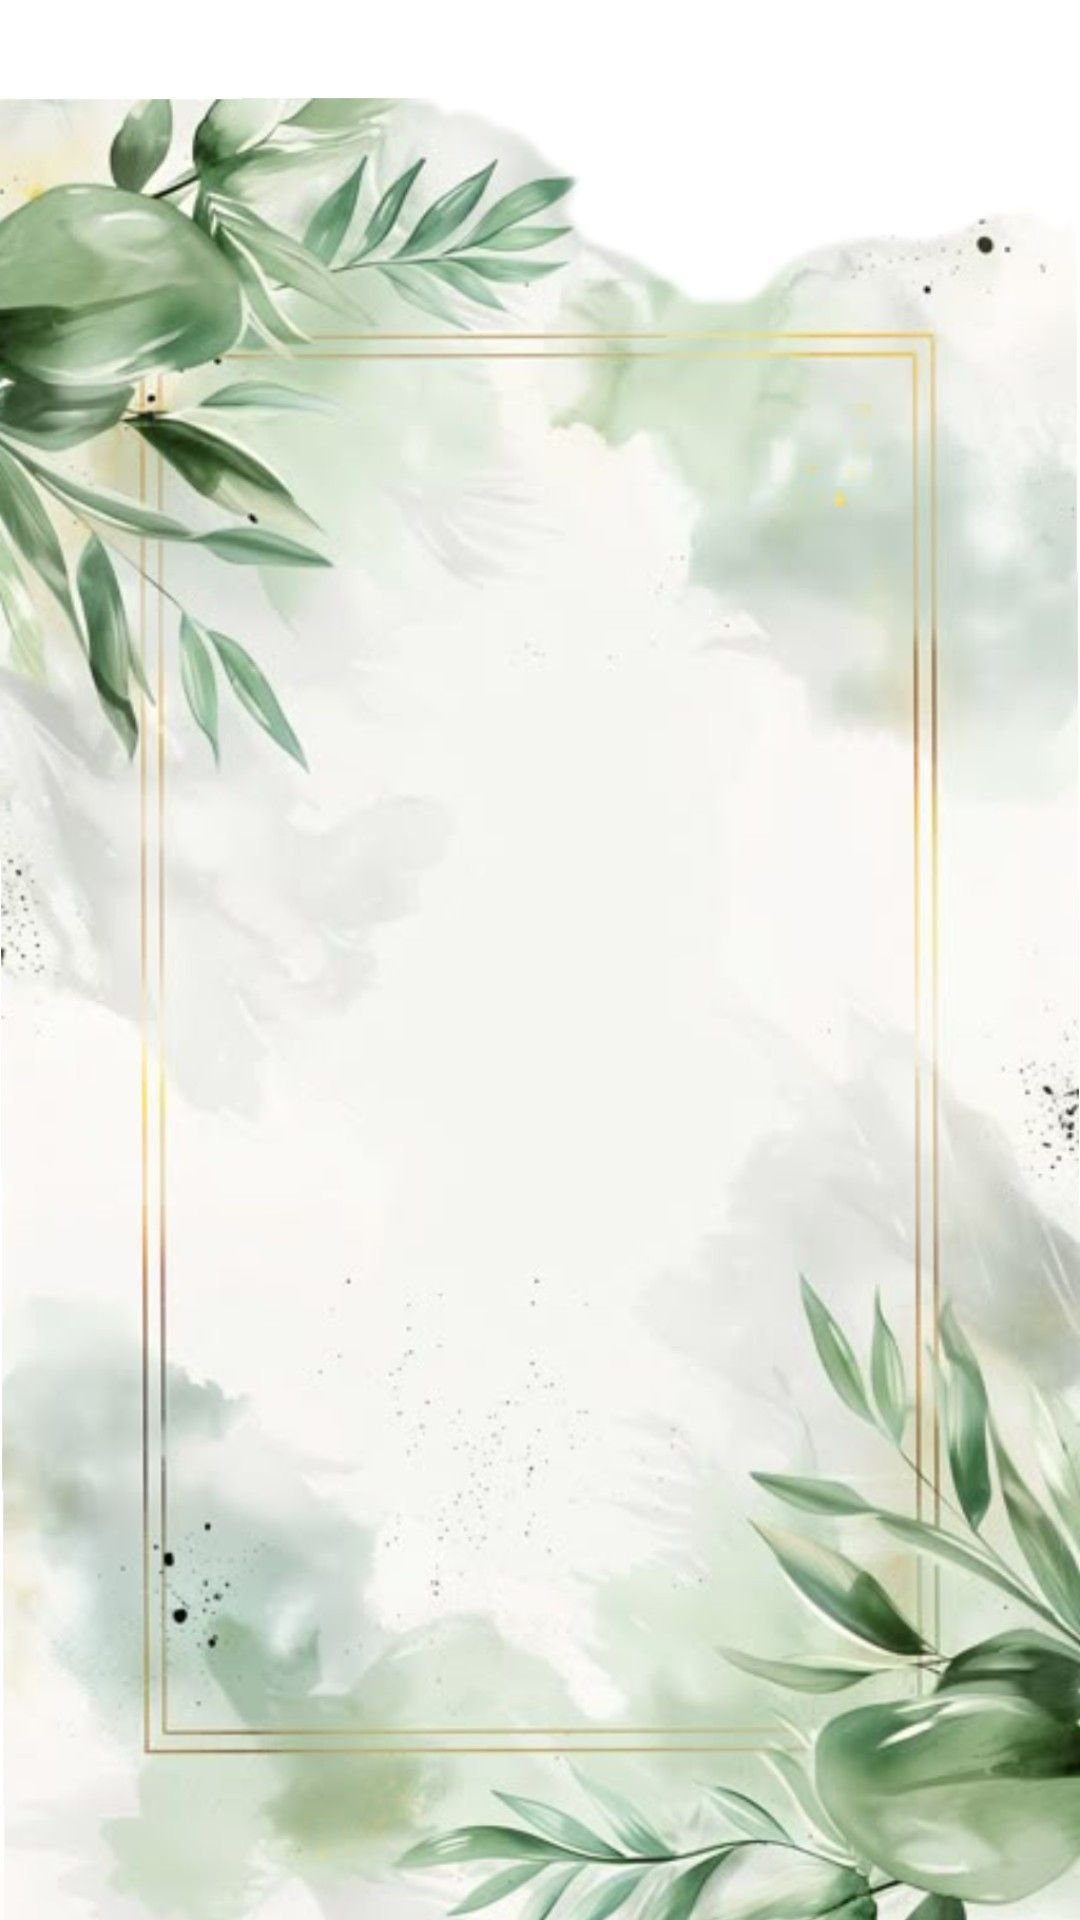
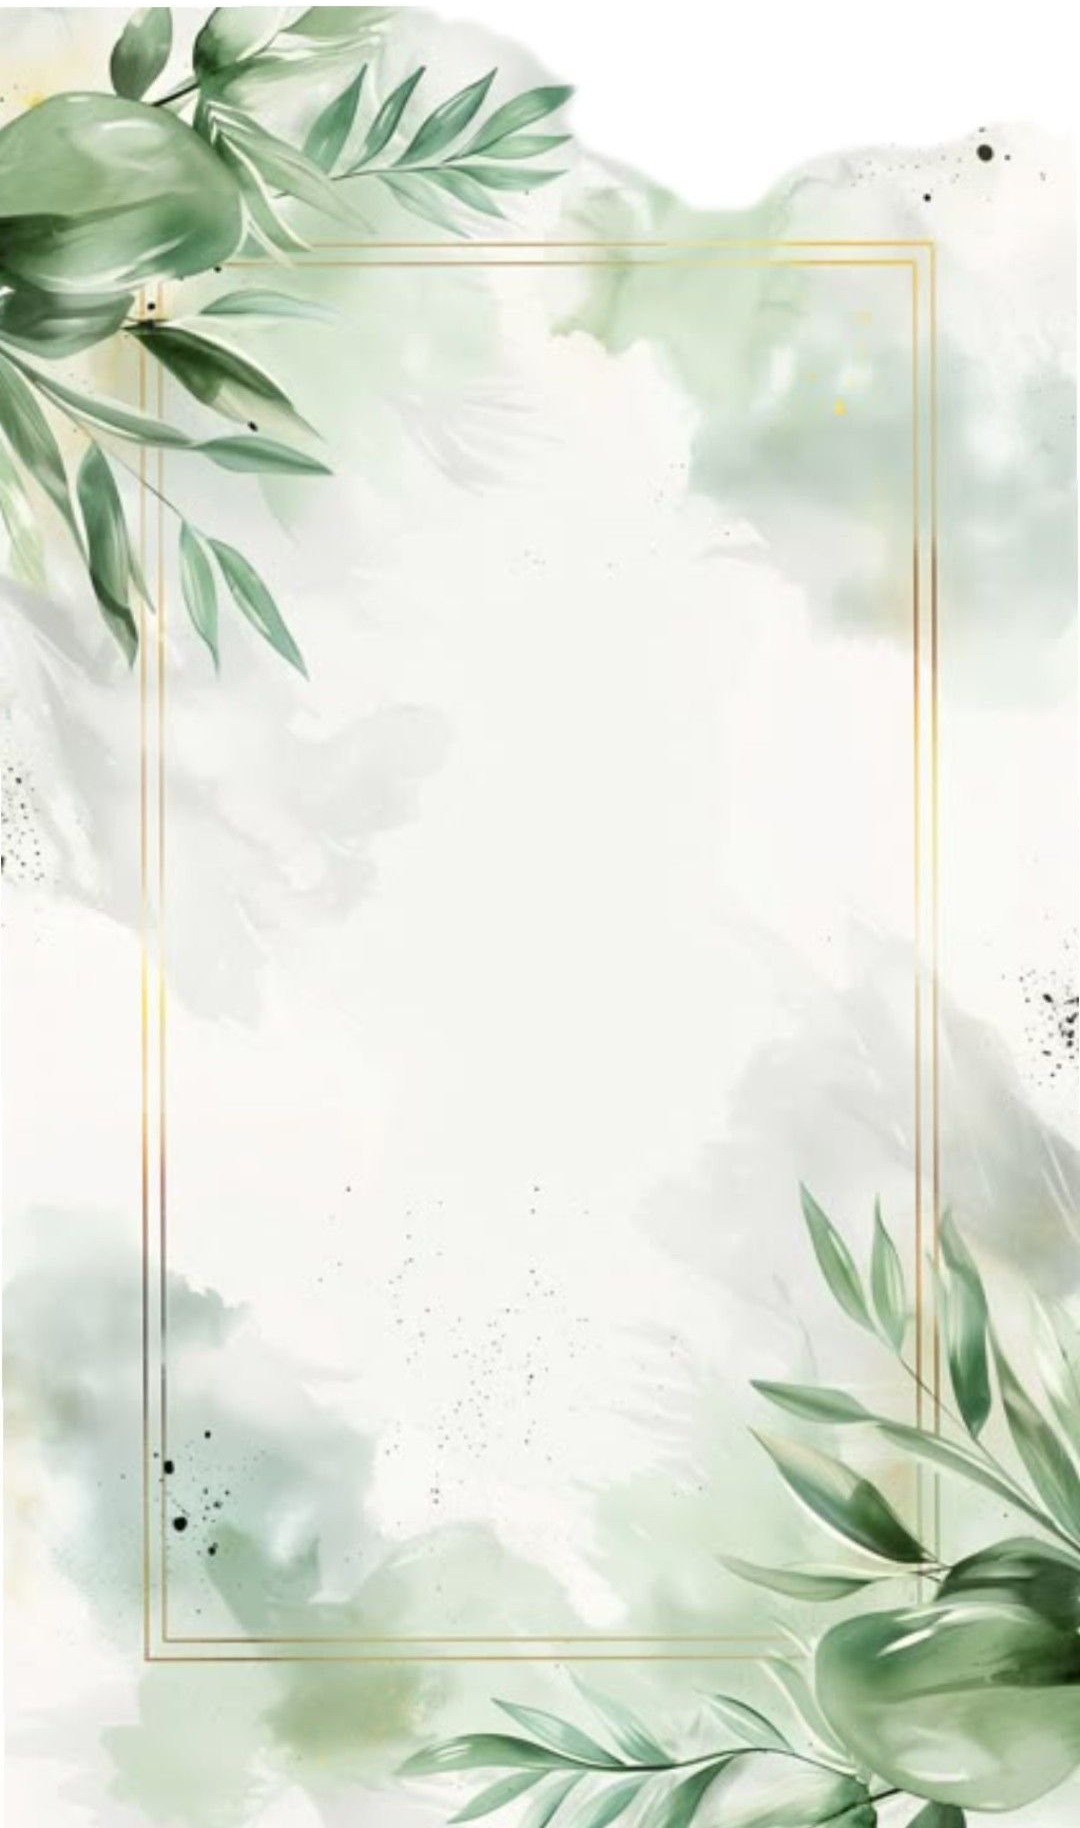
changes v2

diff --git a/index.html b/index.html
@@ -30,7 +30,7 @@ html{
   height:100%;
 }
 body{
-  margin:0;background:var(--bg);color:var(--ink);
+  margin:0;background:transparent;color:var(--ink); /* фон страницы задаёт html, чтобы не перекрывать слой с фото */
   font-family:var(--body);font-size:1.05rem;line-height:1.7;
   height:100%;
   overflow-y:scroll;
@@ -47,8 +47,15 @@ body{
    ------------------------------------------------------------ */
 .photo-bg{
   position:fixed;inset:0;z-index:-1;
-  background:var(--bg) url('bg.jpg') center top / auto 100dvh no-repeat;
+  /* cover — картинка всегда заполняет слой целиком, без полос сверху/снизу,
+     как бы браузер ни считал высоту экрана с плавающей адресной строкой */
+  background:var(--bg) url('bg.jpg') center top / cover no-repeat;
 }
+/* на широких экранах (планшет горизонтально, десктоп) — по высоте, чтобы не резать рамку */
+@media (min-aspect-ratio: 1080/1828){
+  .photo-bg{background-size:auto 100%}
+}
+html{background:var(--bg)}
 
 /* ============================================================
    ПАДАЮЩИЕ ИСКРЫ — тихий постоянный слой поверх фона, под текстом
@@ -440,15 +447,17 @@ button{font:inherit;cursor:pointer}
    остаётся внутри рамки на любом телефоне.
    ============================================================ */
 .section,.hero,.footer{
+  height:100vh;min-height:100vh;padding:17vh 0 16vh;
   height:100dvh;min-height:100dvh;box-sizing:border-box;
-  padding:20dvh 0 15dvh;
+  padding:17dvh 0 16dvh;
   display:flex;flex-direction:column;justify-content:center;align-items:center;
   overflow:hidden;border:0;
 }
 .section--scrolly{overflow:hidden}
 .section > .measure,.hero > .frame4,.footer > .frame4{
-  width:min(37dvh, 100vw - 2.5rem);max-width:none;margin:0 auto;
-  max-height:65dvh;overflow-y:auto;scrollbar-width:none;
+  width:min(39vh, 100vw - 2.5rem);max-height:67vh;
+  width:min(39dvh, 100vw - 2.5rem);max-width:none;margin:0 auto;
+  max-height:67dvh;overflow-y:auto;scrollbar-width:none;
 }
 .section > .measure::-webkit-scrollbar,.hero > .frame4::-webkit-scrollbar,.footer > .frame4::-webkit-scrollbar{display:none}
 /* своя рамка и белые карточки больше не нужны — рамка есть на фото */
